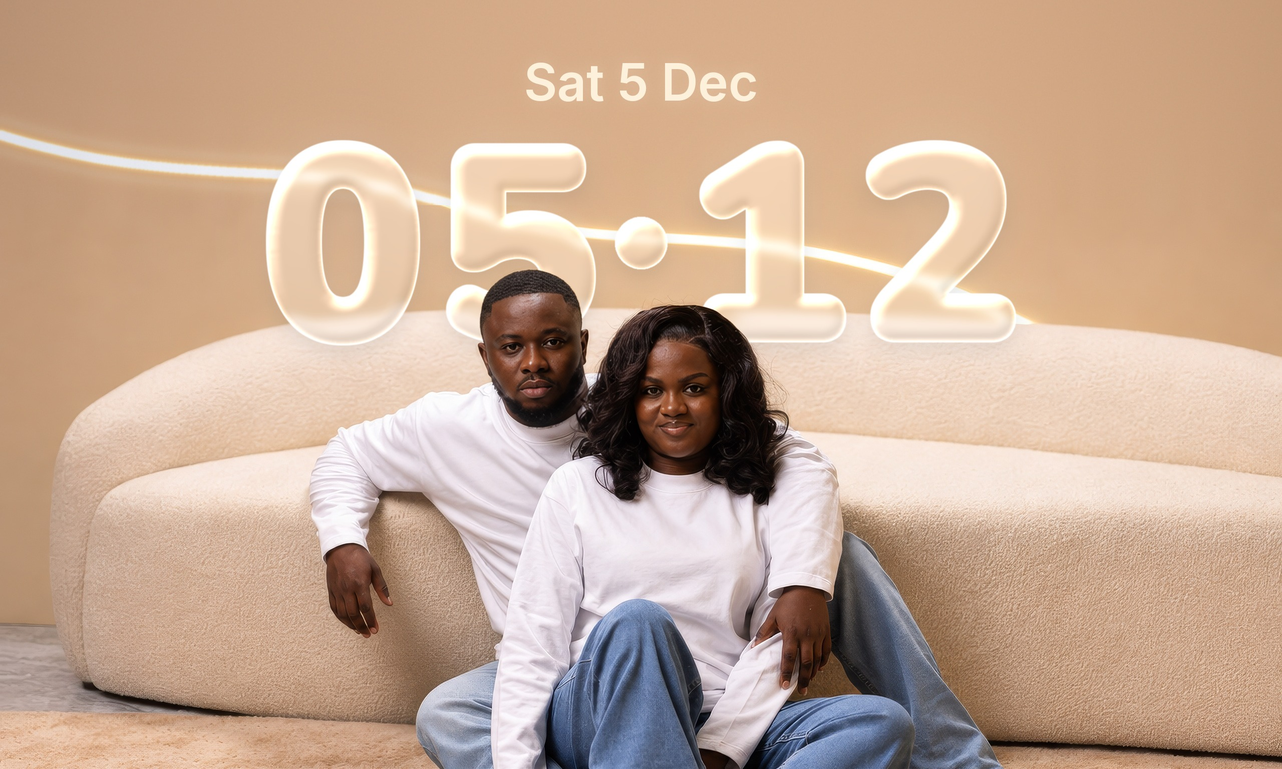
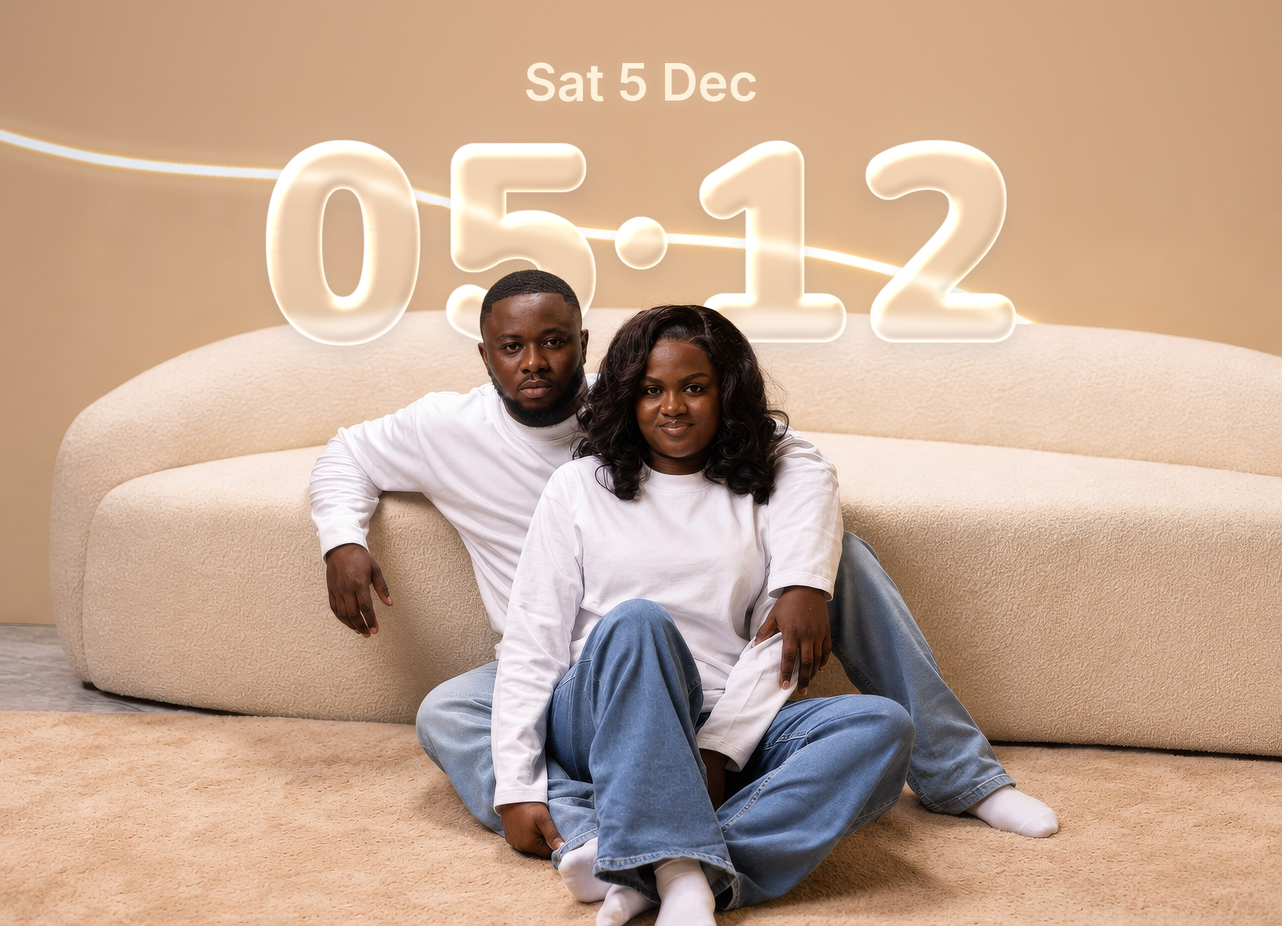
Fade the email header into the page, as the one before it did
The 05·12 photo now fades into the email's blush at its sides and from the
couple's knees down, so the letter starts where the picture ends. The source
runs on below the knees for the fade to work over: 1200 x 860, shown at
600 x 430 (71 KB).

diff --git a/design/email-header/header.html b/design/email-header/header.html
@@ -1,11 +1,16 @@
 <!doctype html>
-<!-- Source of public/email/header.jpg (1200x720, shown at 600x360), the RSVP email's header.
+<!-- Source of public/email/header.jpg (1200x860, shown at 600x430), the RSVP email's header.
      The pre-wedding shoot with "Sat 5 Dec" and 05·12 in glass numerals behind the couple, like a
-     phone's lock screen (date-photo.jpg, cropped 5:3 from just above the date line to the knees),
-     so the first thing a guest sees is the day. Render it with render.mjs. --><html><head><meta charset="utf-8"><style>
+     phone's lock screen (date-photo.jpg, from just above the date line down), so the first thing a
+     guest sees is the day. Like the header before it, it fades into the email's blush page
+     (#F7EFEA): softly at the sides, and from the couple's knees down at the bottom, so the letter
+     starts where the picture ends. Render it with render.mjs. --><html><head><meta charset="utf-8"><style>
 html, body { margin: 0; }
-.header { width: 1200px; height: 720px; overflow: hidden; background: #D9B48F; }
-.header img { display: block; width: 1200px; height: 720px; }
+.header { width: 1200px; height: 860px; position: relative; overflow: hidden; background: #F7EFEA; }
+.header img { display: block; width: 1200px; height: 860px; object-fit: cover; object-position: 50% 0%; }
+.fade { position: absolute; inset: 0; background:
+  linear-gradient(180deg, rgba(247,239,234,0) 0%, rgba(247,239,234,0) 60%, rgba(247,239,234,0.35) 71%, rgba(247,239,234,0.8) 85%, #F7EFEA 98%),
+  linear-gradient(90deg, #F7EFEA 0%, rgba(247,239,234,0) 7%, rgba(247,239,234,0) 93%, #F7EFEA 100%); }
 </style></head><body>
-<div class="header"><img src="date-photo.jpg" alt=""></div>
+<div class="header"><img src="date-photo.jpg" alt=""><div class="fade"></div></div>
 </body></html>

diff --git a/src/emails/components/Header.tsx b/src/emails/components/Header.tsx
@@ -3,12 +3,13 @@ import { colours, fonts } from "./theme";
 
 /** The banner's size as shown; the file is twice that for sharp screens. */
 const WIDTH = 600;
-const HEIGHT = 360;
+const HEIGHT = 430;
 
 /**
- * The header: the pre-wedding shoot with "Sat 5 Dec" and 05·12 in glass behind the couple, from
- * `design/email-header` and served from the site. Where images are blocked, the blush ground and
- * the alt text stand in for it. Left out of the plain-text part.
+ * The header: the pre-wedding shoot with "Sat 5 Dec" and 05·12 in glass behind the couple, fading
+ * into the blush page at its sides and bottom, from `design/email-header` and served from the site.
+ * Where images are blocked, the blush ground and the alt text stand in for it. Left out of the
+ * plain-text part.
  */
 export function Header({ siteUrl }: { siteUrl: string }) {
   return (
